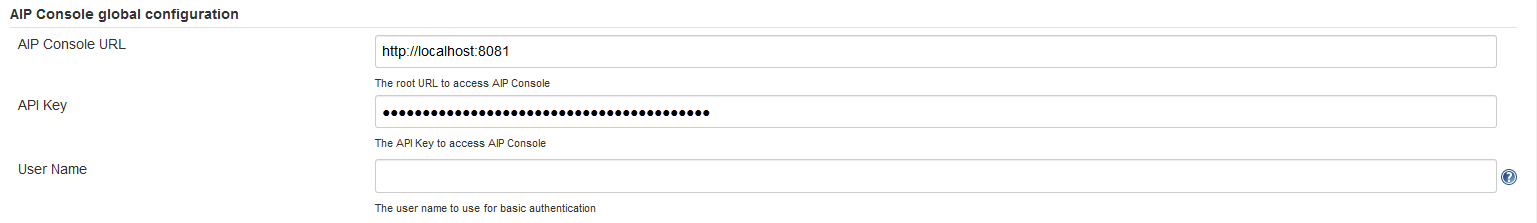
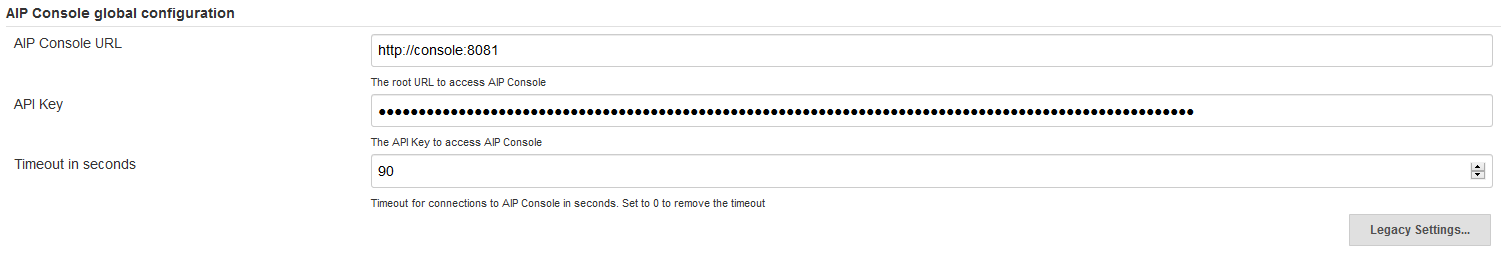
Changes to documentation

diff --git a/README.md b/README.md
@@ -10,17 +10,19 @@ Please check each folder for more details on each elements.
 
 ### Modules
 
-This project contains 3 modules, Please use unzip tool to extract the .nupkg file if downloaded from CAST-EXTEND to get the components :
+**NB**: If you have downloaded this project from CAST Extend, you can use a ZIP extraction tool (like 7zip) to extract the content of the `.nupkg` file.
 
-* AIP Jenkins Plugin : Module containing the code to our Jenkins plugin to create an application or add a version
-* AIP Integration CLI : Module containing the CLI to create an application or add a version
-* AIP Integration Core : library containing shared code between the Jenkins Plugin and the AIP Integration CLI
+This project contains 3 modules :
+
+* *AIP Console Jenkins Plugin* : Module containing the code to our Jenkins plugin to create an application or add a version
+* *AIP Console Tools CLI* : Module containing the CLI to create an application or add a version
+* *AIP Console Tools Core* : library containing shared code between the Jenkins Plugin and the AIP Integration CLI
 
 ### Java Version
 
-AIP Integration Core and AIP Integration CLI will compile fine on JDK versions 8 through 12. The source will be compiled to be used with Java 8. 
+AIP Console Tools Core and AIP Console Tools CLI will compile fine on JDK versions 8 through 12. The source will be compiled to be used with Java 8. 
 
-AIP Jenkins Plugin will only compile for Java 8. This is due to the baseline version we target (2.60.3) which, while not particularly recent, covers a wider range of users.
+AIP Console Jenkins Plugin will only compile for Java 8. This is due to the baseline version we target (2.60.3) which, while not particularly recent, covers a wider range of users.
 
 If you need to compile the plugin with a different Java version, you can pass the `-Djenkins.version=2.XXX` to the maven command.
 

diff --git a/aip-console-jenkins/README.md b/aip-console-jenkins/README.md
@@ -11,7 +11,8 @@ Under Manage Jenkins > Configure System > AIP Console global configuration
 Here you can define:
 * AIP Console URL: The main URL to access AIP Console. If you access the AIP Console UI with, for example, http://my-aip-console:8081/ui/index.html, then the AIP Console URL will be http://my-aip-console:8081. If left blank this will default to http://localhost:8081
 * API Key: An API Key, generated inside AIP Console (top right menu). If this option is missing from your AIP Console instance, you can set this field to a user's aip console password and set the `user name` field inside "Legacy Settings"
-* User Name: The user name to use for basic authentication. This should only be used if your AIP Console is 1.9.0 or below.
+* Timeout: The default timeout for all exchanges between Jenkins and AIP Console. This can be changed at the Job level as well. 
+* User Name: The user name to use for basic authentication. This should only be used if your AIP Console version is 1.9.0 or below.
 
 ### Create Application Step
 

diff --git a/aip-console-tools-core/README.md b/aip-console-tools-core/README.md
@@ -9,7 +9,6 @@ In the project, you'll find the following packages:
 * `dto`: Java representation of JSON object sent and retrieved from AIP Console API
 * `services`: The interfaces and implementation for calls to the API.
     * Impl classes : These are the actual implementation for the upload and jobs services that are shared between the Jenkins Plugin and the CLI.
-    
 * `utils`: Some utility classes
 
 ### How to build
